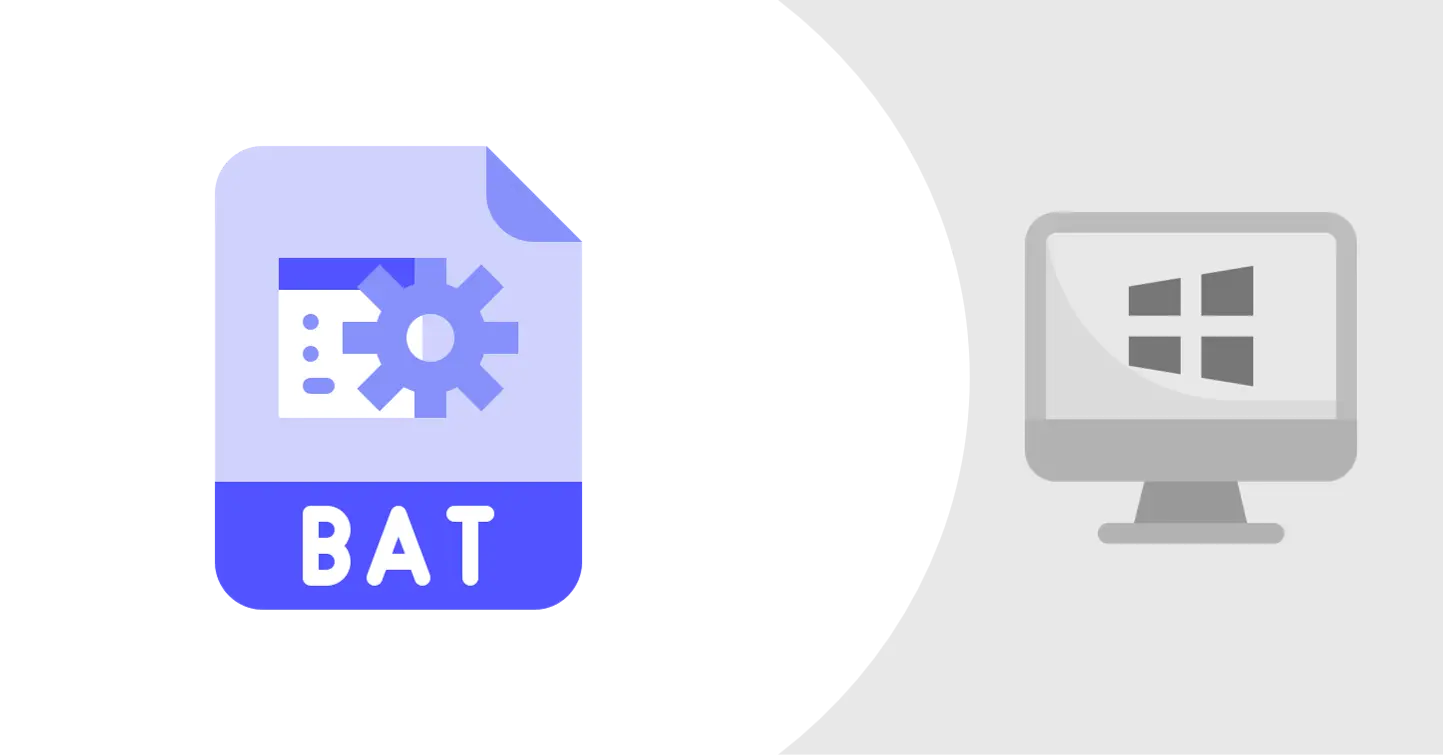
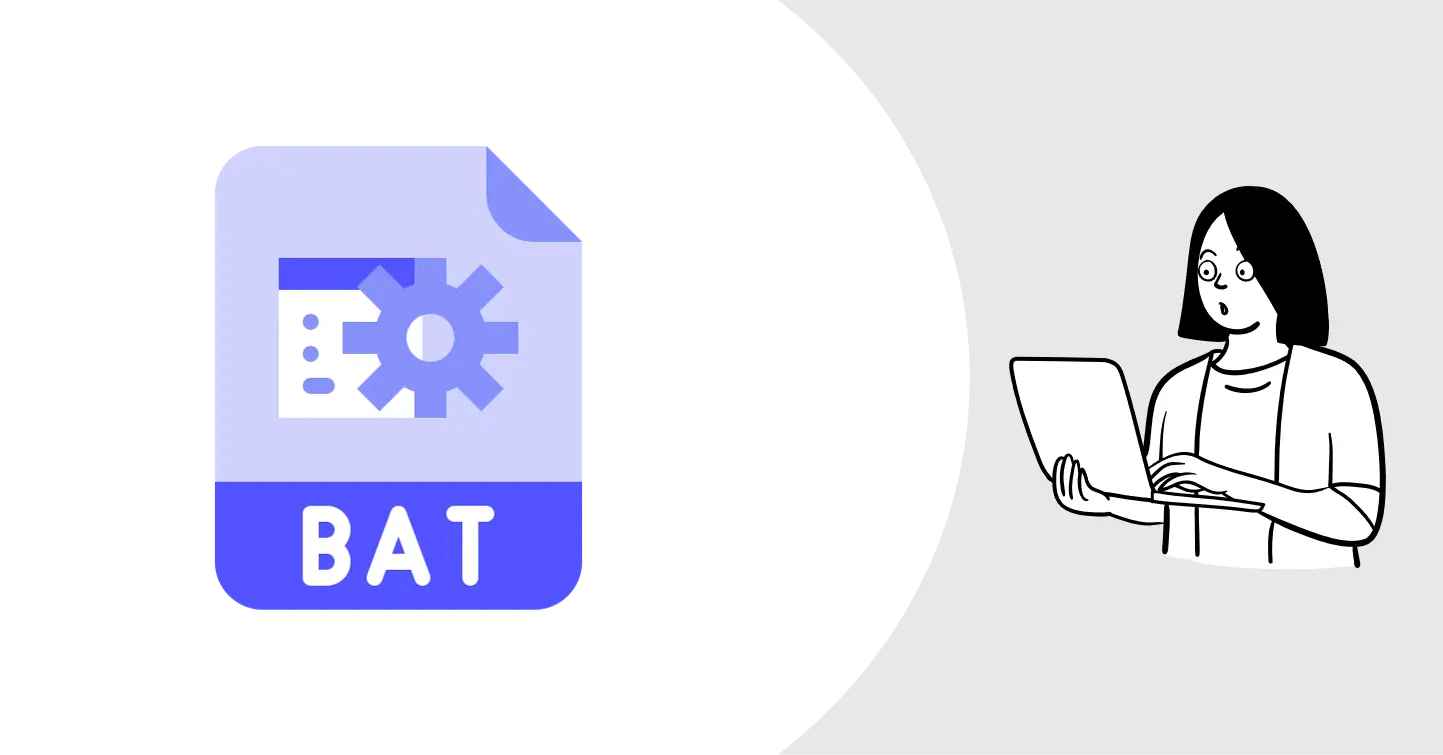
New preview image for bat file intro added

Changed region(s): [[0.6861, 0.2437, 0.9667, 0.7311]]

diff --git a/_posts/BatFiles/2024-11-11-bat-files-windows.md b/_posts/BatFiles/2024-11-11-bat-files-windows.md
@@ -4,7 +4,7 @@ description : Hide Folders, Open Current folder in VS Code
 date: 11-11-2024
 categories: [Software Tools, Bat Files]
 tag: [bat file, automation, script, how to]
-image: /assets/images/batfiles/bat_intro.webp
+image: /assets/images/batfiles/bat_windows.webp
 ---
 
 ### Overview
